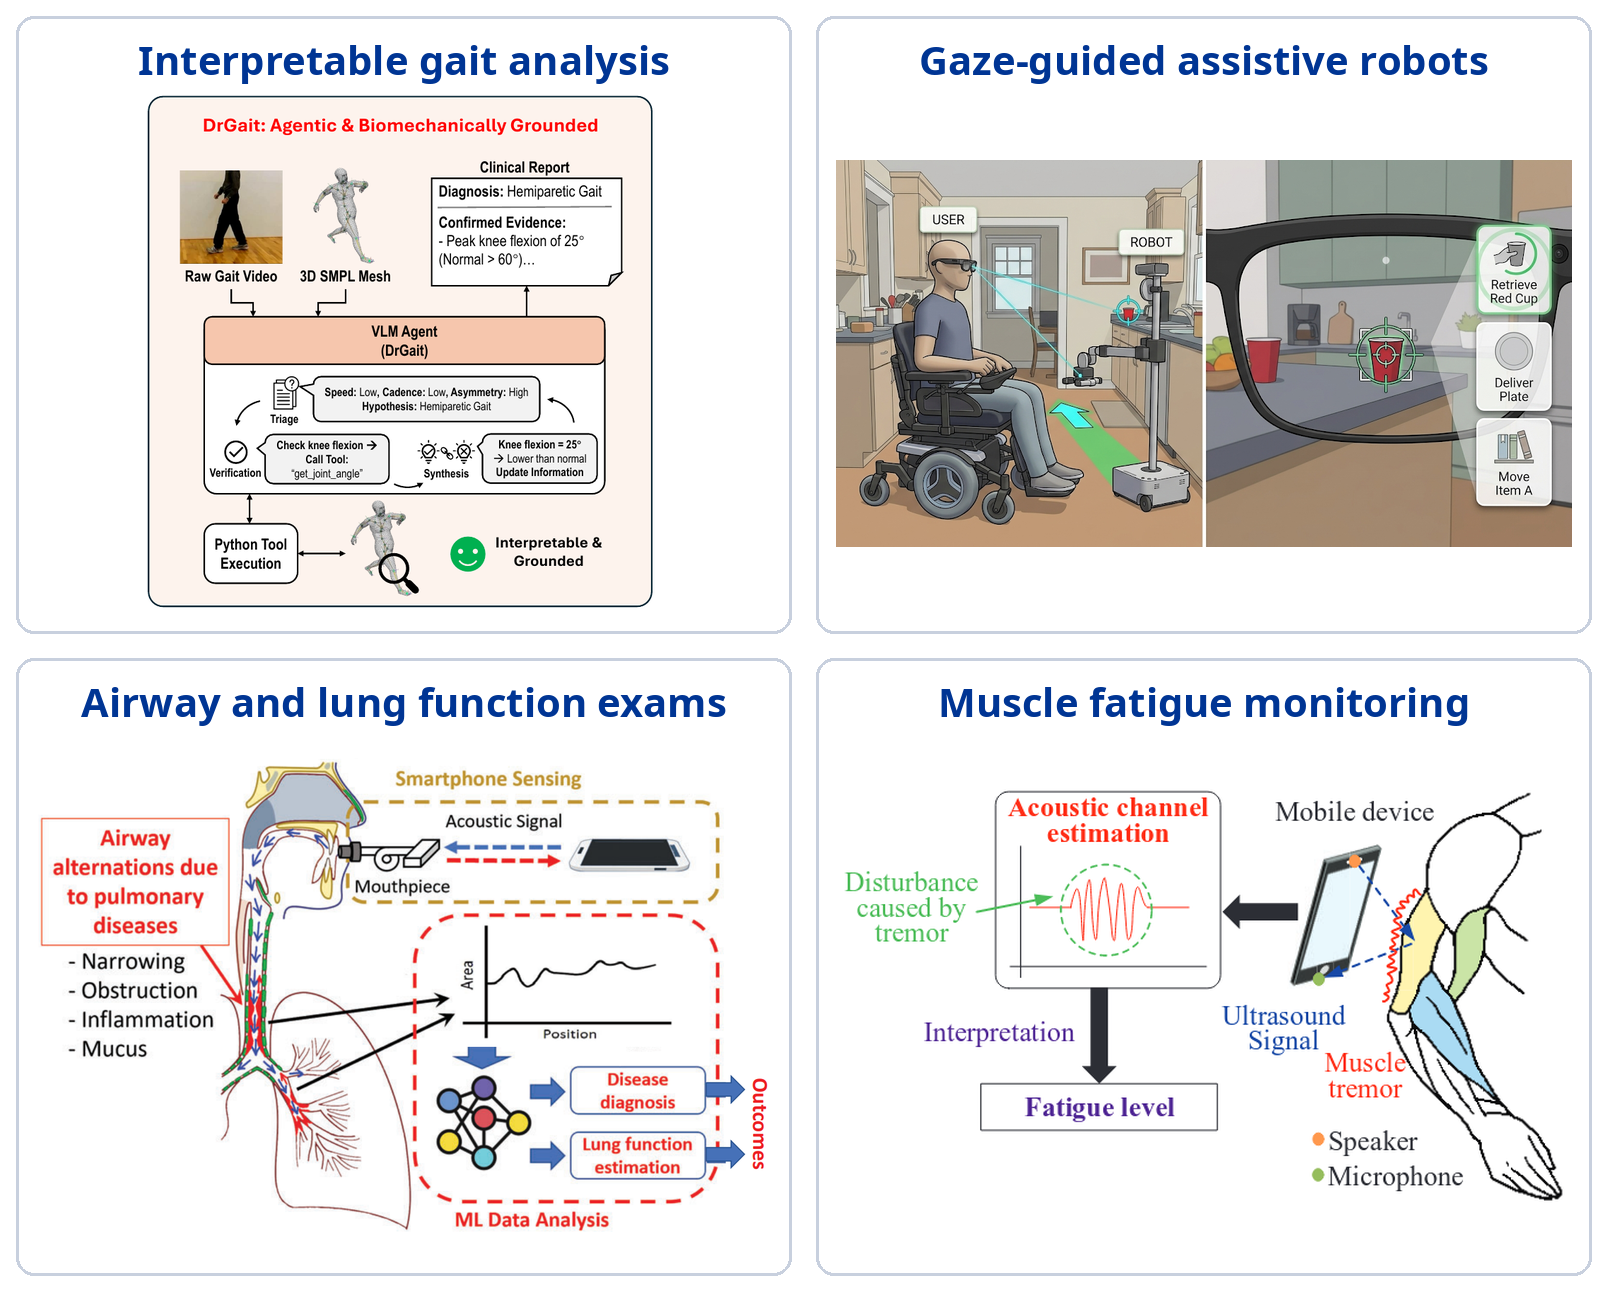
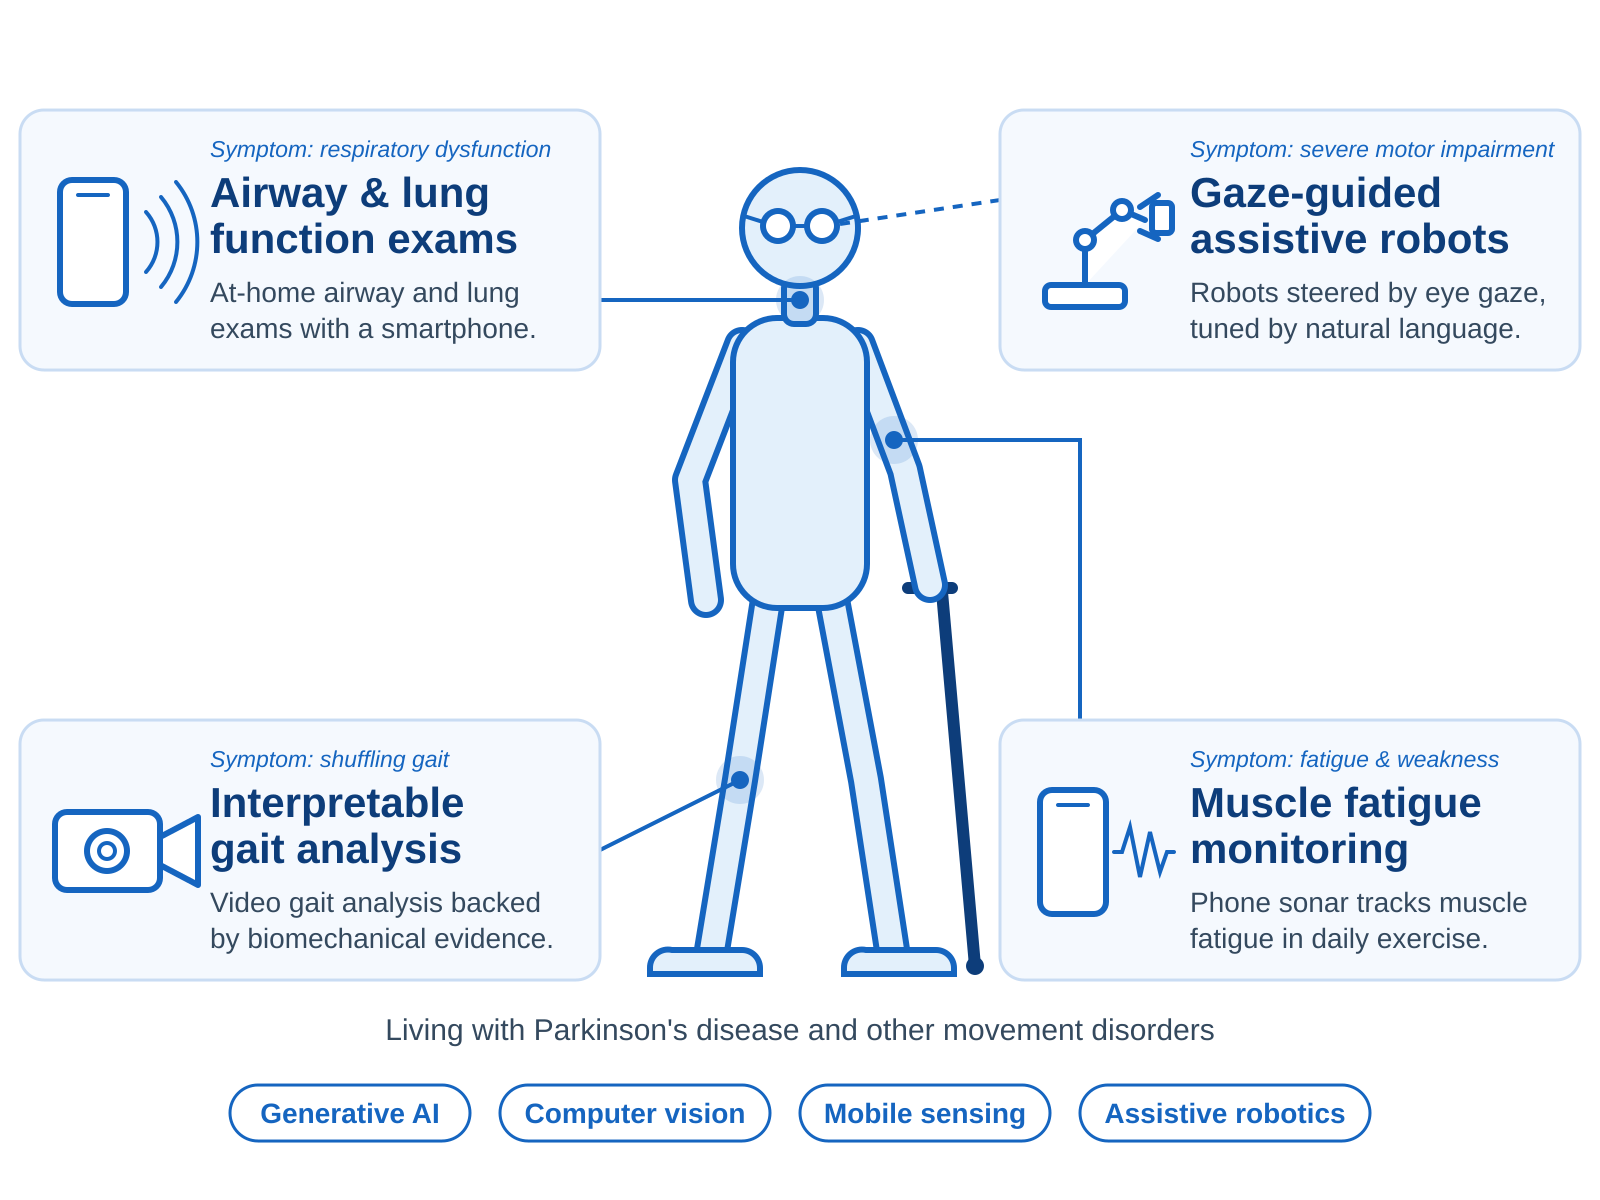
Redraw the Parkinson's project overview figure
Replace the four-paper collage with a single diagram drawn around a
person with a cane: four cards name a symptom, the sensing method and
what it delivers (airway and lung exams, gaze-guided assistive robots,
interpretable gait analysis, muscle fatigue monitoring), with no paper
names or figures. The SVG source lives next to the exported PNG.

Claude-Session: https://claude.ai/code/session_01ECFohVJRaP15AMXE8Rt4rS

diff --git a/content/_index.md b/content/_index.md
@@ -284,7 +284,7 @@ sections:
       title: AI for Parkinson's Disease
       subtitle: 'Parkinson''s disease (PD) is a progressive neurodegenerative disorder whose motor symptoms, such as shuffling gait, rigidity and loss of fine motor control, come with growing complications, including fatigue, muscle weakness and respiratory dysfunction. Our research applies AI, computer vision and mobile sensing across this spectrum, from interpretable gait analysis and gaze-guided assistive robots to smartphone-based monitoring of the airway, lung function and muscle fatigue at home.'
       text: |
-        ![Overview of our research on Parkinson's disease: interpretable gait analysis, gaze-guided assistive robots, airway and lung function exams, and muscle fatigue monitoring](parkinsons-overview.png)
+        ![A person with a cane, surrounded by the four problems our research addresses: airway and lung function exams, gaze-guided assistive robots, interpretable gait analysis, and muscle fatigue monitoring](parkinsons-overview.png)
         {{< hr >}}
         [**View more...**](/projects/parkinsons-disease/)
     design:

diff --git a/content/projects/parkinsons-disease.md b/content/projects/parkinsons-disease.md
@@ -15,7 +15,7 @@ sections:
 
         Our research applies AI, computer vision and mobile sensing across this spectrum: interpretable video-based gait analysis that recognizes pathological gait patterns such as Parkinsonian gait and backs each diagnosis with measured biomechanical evidence, assistive robots that users with severe motor impairments can direct with their eye gaze and personalize through natural language feedback, and smartphone-based tools that examine the airway and monitor lung function and muscle fatigue at home.
         <--->
-        ![Overview of our research on Parkinson's disease: interpretable gait analysis, gaze-guided assistive robots, airway and lung function exams, and muscle fatigue monitoring](parkinsons-overview.png)
+        ![A person with a cane, surrounded by the four problems our research addresses: airway and lung function exams, gaze-guided assistive robots, interpretable gait analysis, and muscle fatigue monitoring](parkinsons-overview.png)
         {{< /columns >}}
         {{< hr >}}
         ## Related Datasets

diff --git a/CLAUDE.md b/CLAUDE.md
@@ -86,6 +86,7 @@ Actions are pinned to commit SHAs with the tag in a trailing comment.
 | `content/dataset/`, `content/video-and-demos/`, `content/contact/` | Single landing pages built from `markdown`/`contact` blocks |
 | `data/news.yaml` | All news items; rendered on the homepage, on `/news/` (`content/news/_index.md`) and in `/news/index.xml` |
 | `assets/media/` | Images used by content; per-paper figures live in `assets/media/<pub-dir>/` |
+| `assets/media/parkinsons-overview.svg` | Source of the Parkinson's project overview figure; export with `rsvg-convert -w 1600 assets/media/parkinsons-overview.svg -o assets/media/parkinsons-overview.png` |
 | `static/uploads/` | PDFs (posters etc.) served at `/uploads/...` |
 | `static/vendor/` | Self-hosted front-end libraries (generated, see above) |
 | `data/assets.toml` | URLs, versions and SRI of the theme's JS/CSS libraries |
